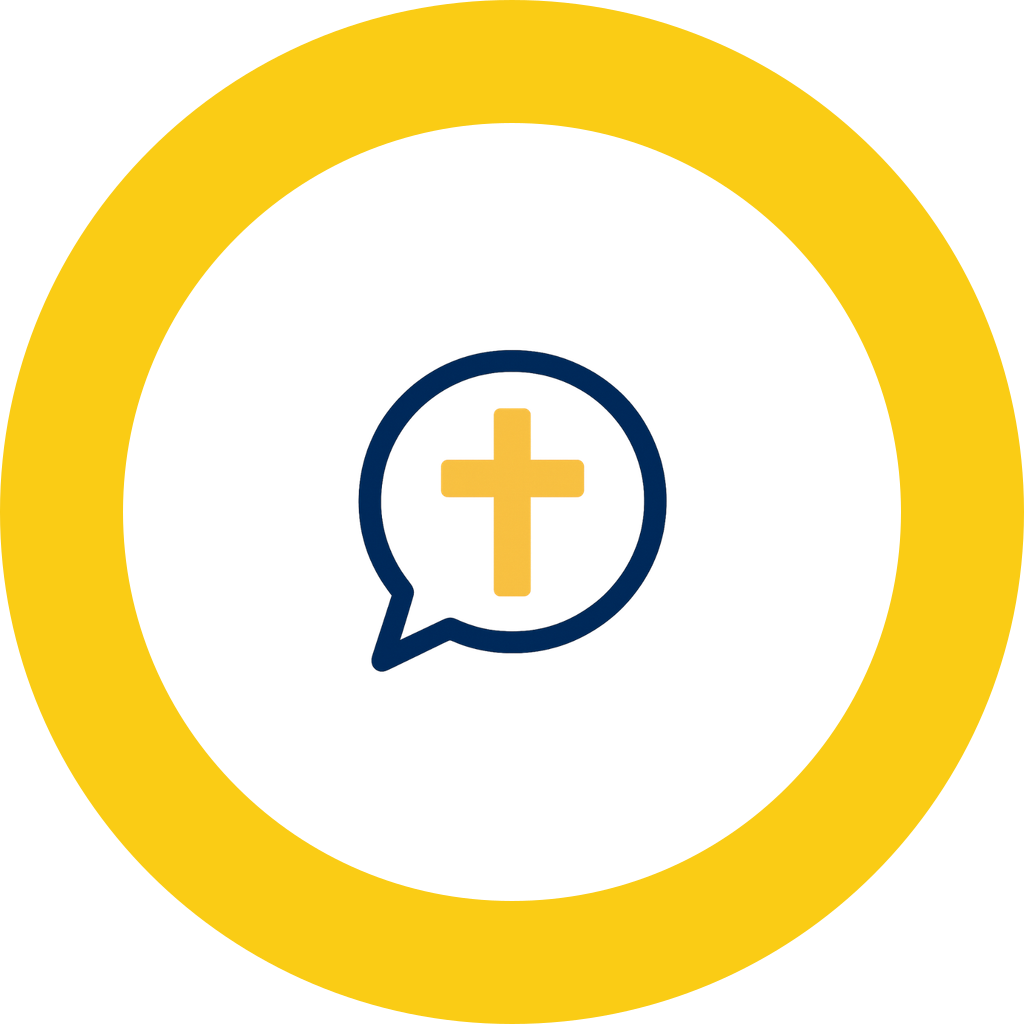
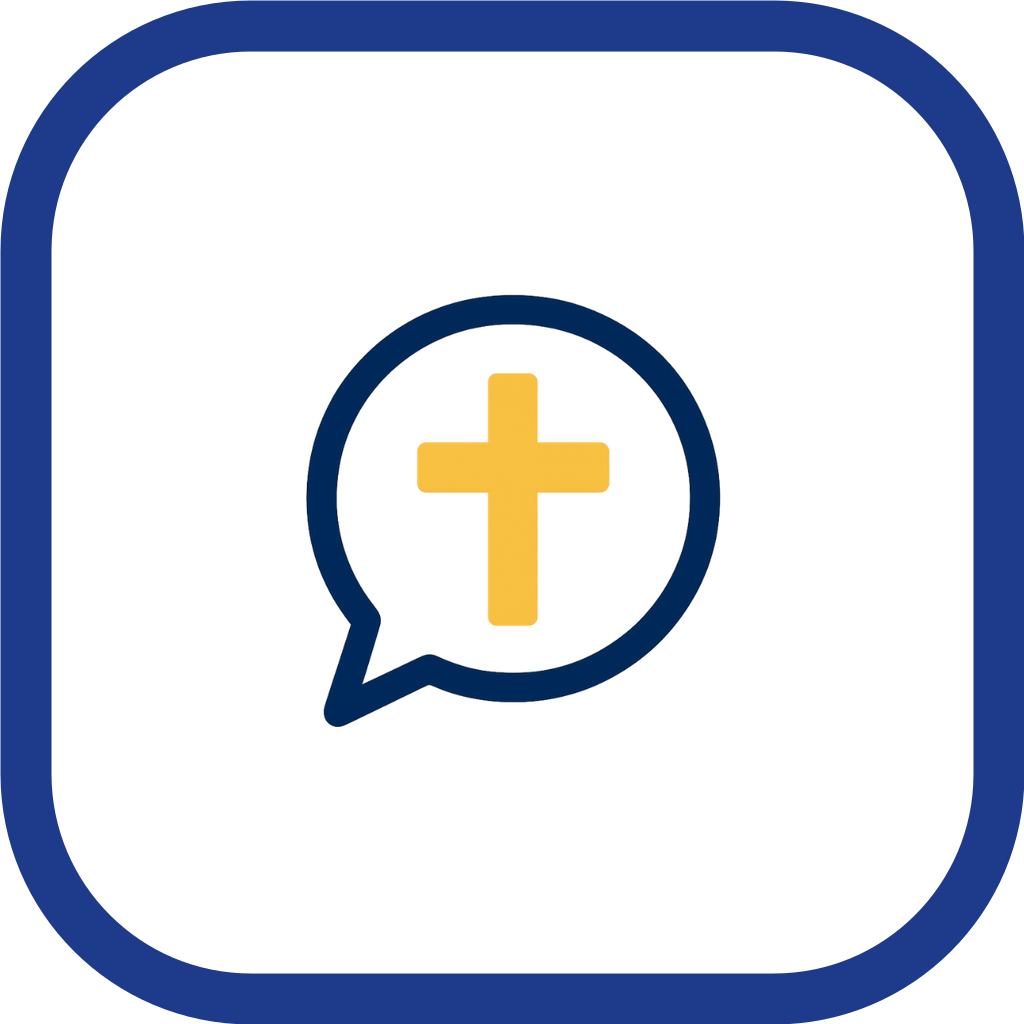
feat(ios): increase foreground to 86% and add navy rounded-square border; bump buildNumber to 5

diff --git a/mobile/scripts/gen-ios-icon.js b/mobile/scripts/gen-ios-icon.js
@@ -4,8 +4,9 @@ const sharp = require('sharp');
 
 (async () => {
   const size = 1024;
-  const ringWidth = Math.round(size * 0.12); // ~12%
-  const innerMargin = Math.round(size * 0.06); // ~6% padding inside ring
+  const borderPct = 0.05; // 5% border
+  const borderWidth = Math.round(size * borderPct);
+  const fgPct = 0.86; // 86% foreground scale
 
   const assetsDir = path.join(__dirname, '..', 'assets');
   const adaptiveIconPath = path.join(assetsDir, 'adaptive-icon.png');
@@ -16,7 +17,6 @@ const sharp = require('sharp');
     process.exit(1);
   }
 
-  // Base white background
   const base = sharp({
     create: {
       width: size,
@@ -26,29 +26,26 @@ const sharp = require('sharp');
     },
   }).png();
 
-  // Gold ring via SVG stroke
-  const r = size / 2 - ringWidth / 2; // radius to center the stroke
-  const svg = `<?xml version="1.0"?>
-<svg xmlns="http://www.w3.org/2000/svg" width="${size}" height="${size}" viewBox="0 0 ${size} ${size}">
-  <circle cx="${size / 2}" cy="${size / 2}" r="${r}" fill="none" stroke="#facc15" stroke-width="${ringWidth}" />
-</svg>`;
+  // Navy border that reaches the edge (stroke centered on an inset rect)
+  const borderColor = process.env.BORDER_COLOR || '#1e3a8a'; // navy
+  const inset = Math.round(borderWidth / 2);
+  const svg = `<?xml version="1.0"?>\n<svg xmlns=\"http://www.w3.org/2000/svg\" width=\"${size}\" height=\"${size}\" viewBox=\"0 0 ${size} ${size}\">\n  <rect x=\"${inset}\" y=\"${inset}\" width=\"${size - borderWidth}\" height=\"${size - borderWidth}\" fill=\"none\" stroke=\"${borderColor}\" stroke-width=\"${borderWidth}\" rx=\"${Math.round(size*0.22)}\" ry=\"${Math.round(size*0.22)}\"/>\n</svg>`;
+  const border = Buffer.from(svg);
 
-  const ring = Buffer.from(svg);
-
-  // Size adaptive foreground to fit within inner circle minus margin
-  const innerDiameter = size - 2 * ringWidth - 2 * innerMargin;
+  // Foreground
+  const inner = Math.round(size * fgPct);
   const fg = await sharp(adaptiveIconPath)
-    .resize({ width: innerDiameter, height: innerDiameter, fit: 'contain' })
+    .resize({ width: inner, height: inner, fit: 'contain' })
     .png()
     .toBuffer();
 
   await base
     .composite([
-      { input: ring, left: 0, top: 0 },
-      { input: fg, left: Math.round((size - innerDiameter) / 2), top: Math.round((size - innerDiameter) / 2) },
+      { input: border, left: 0, top: 0 },
+      { input: fg, left: Math.round((size - inner) / 2), top: Math.round((size - inner) / 2) },
     ])
-    .flatten({ background: '#ffffff' }) // blend any alpha against white
-    .removeAlpha() // drop alpha channel entirely
+    .flatten({ background: '#ffffff' })
+    .removeAlpha()
     .png()
     .toFile(outPath);
 
